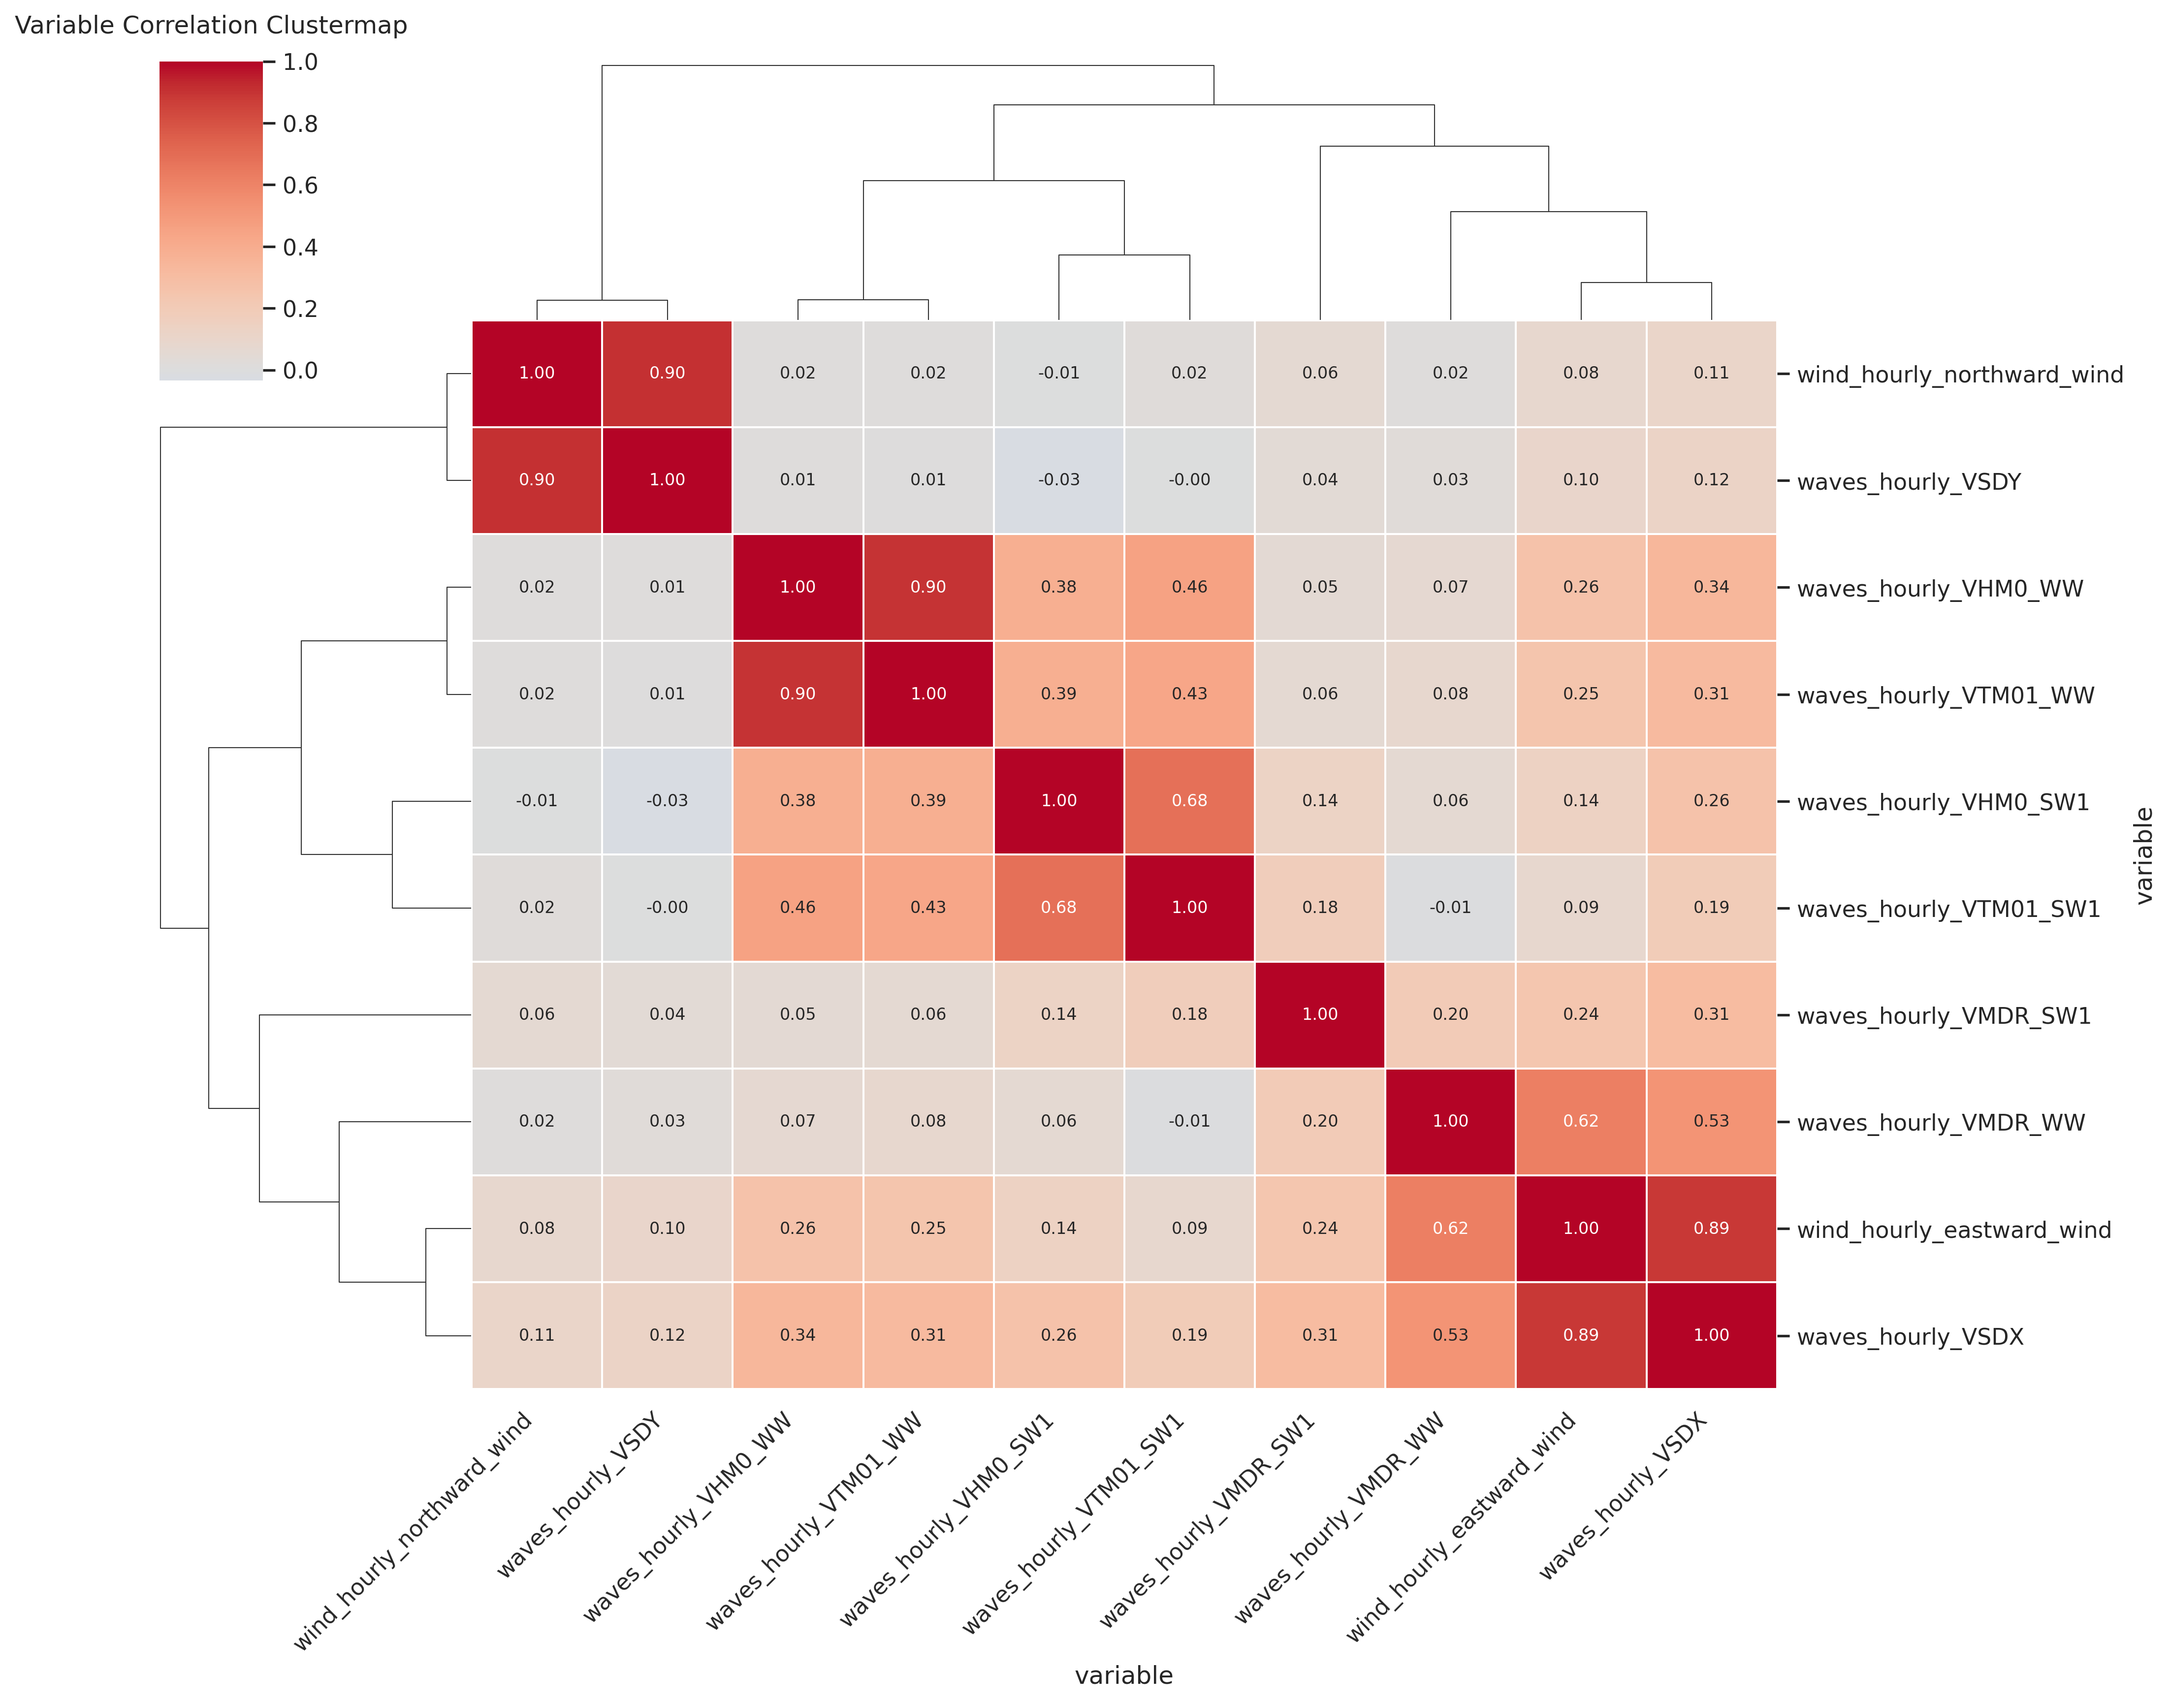
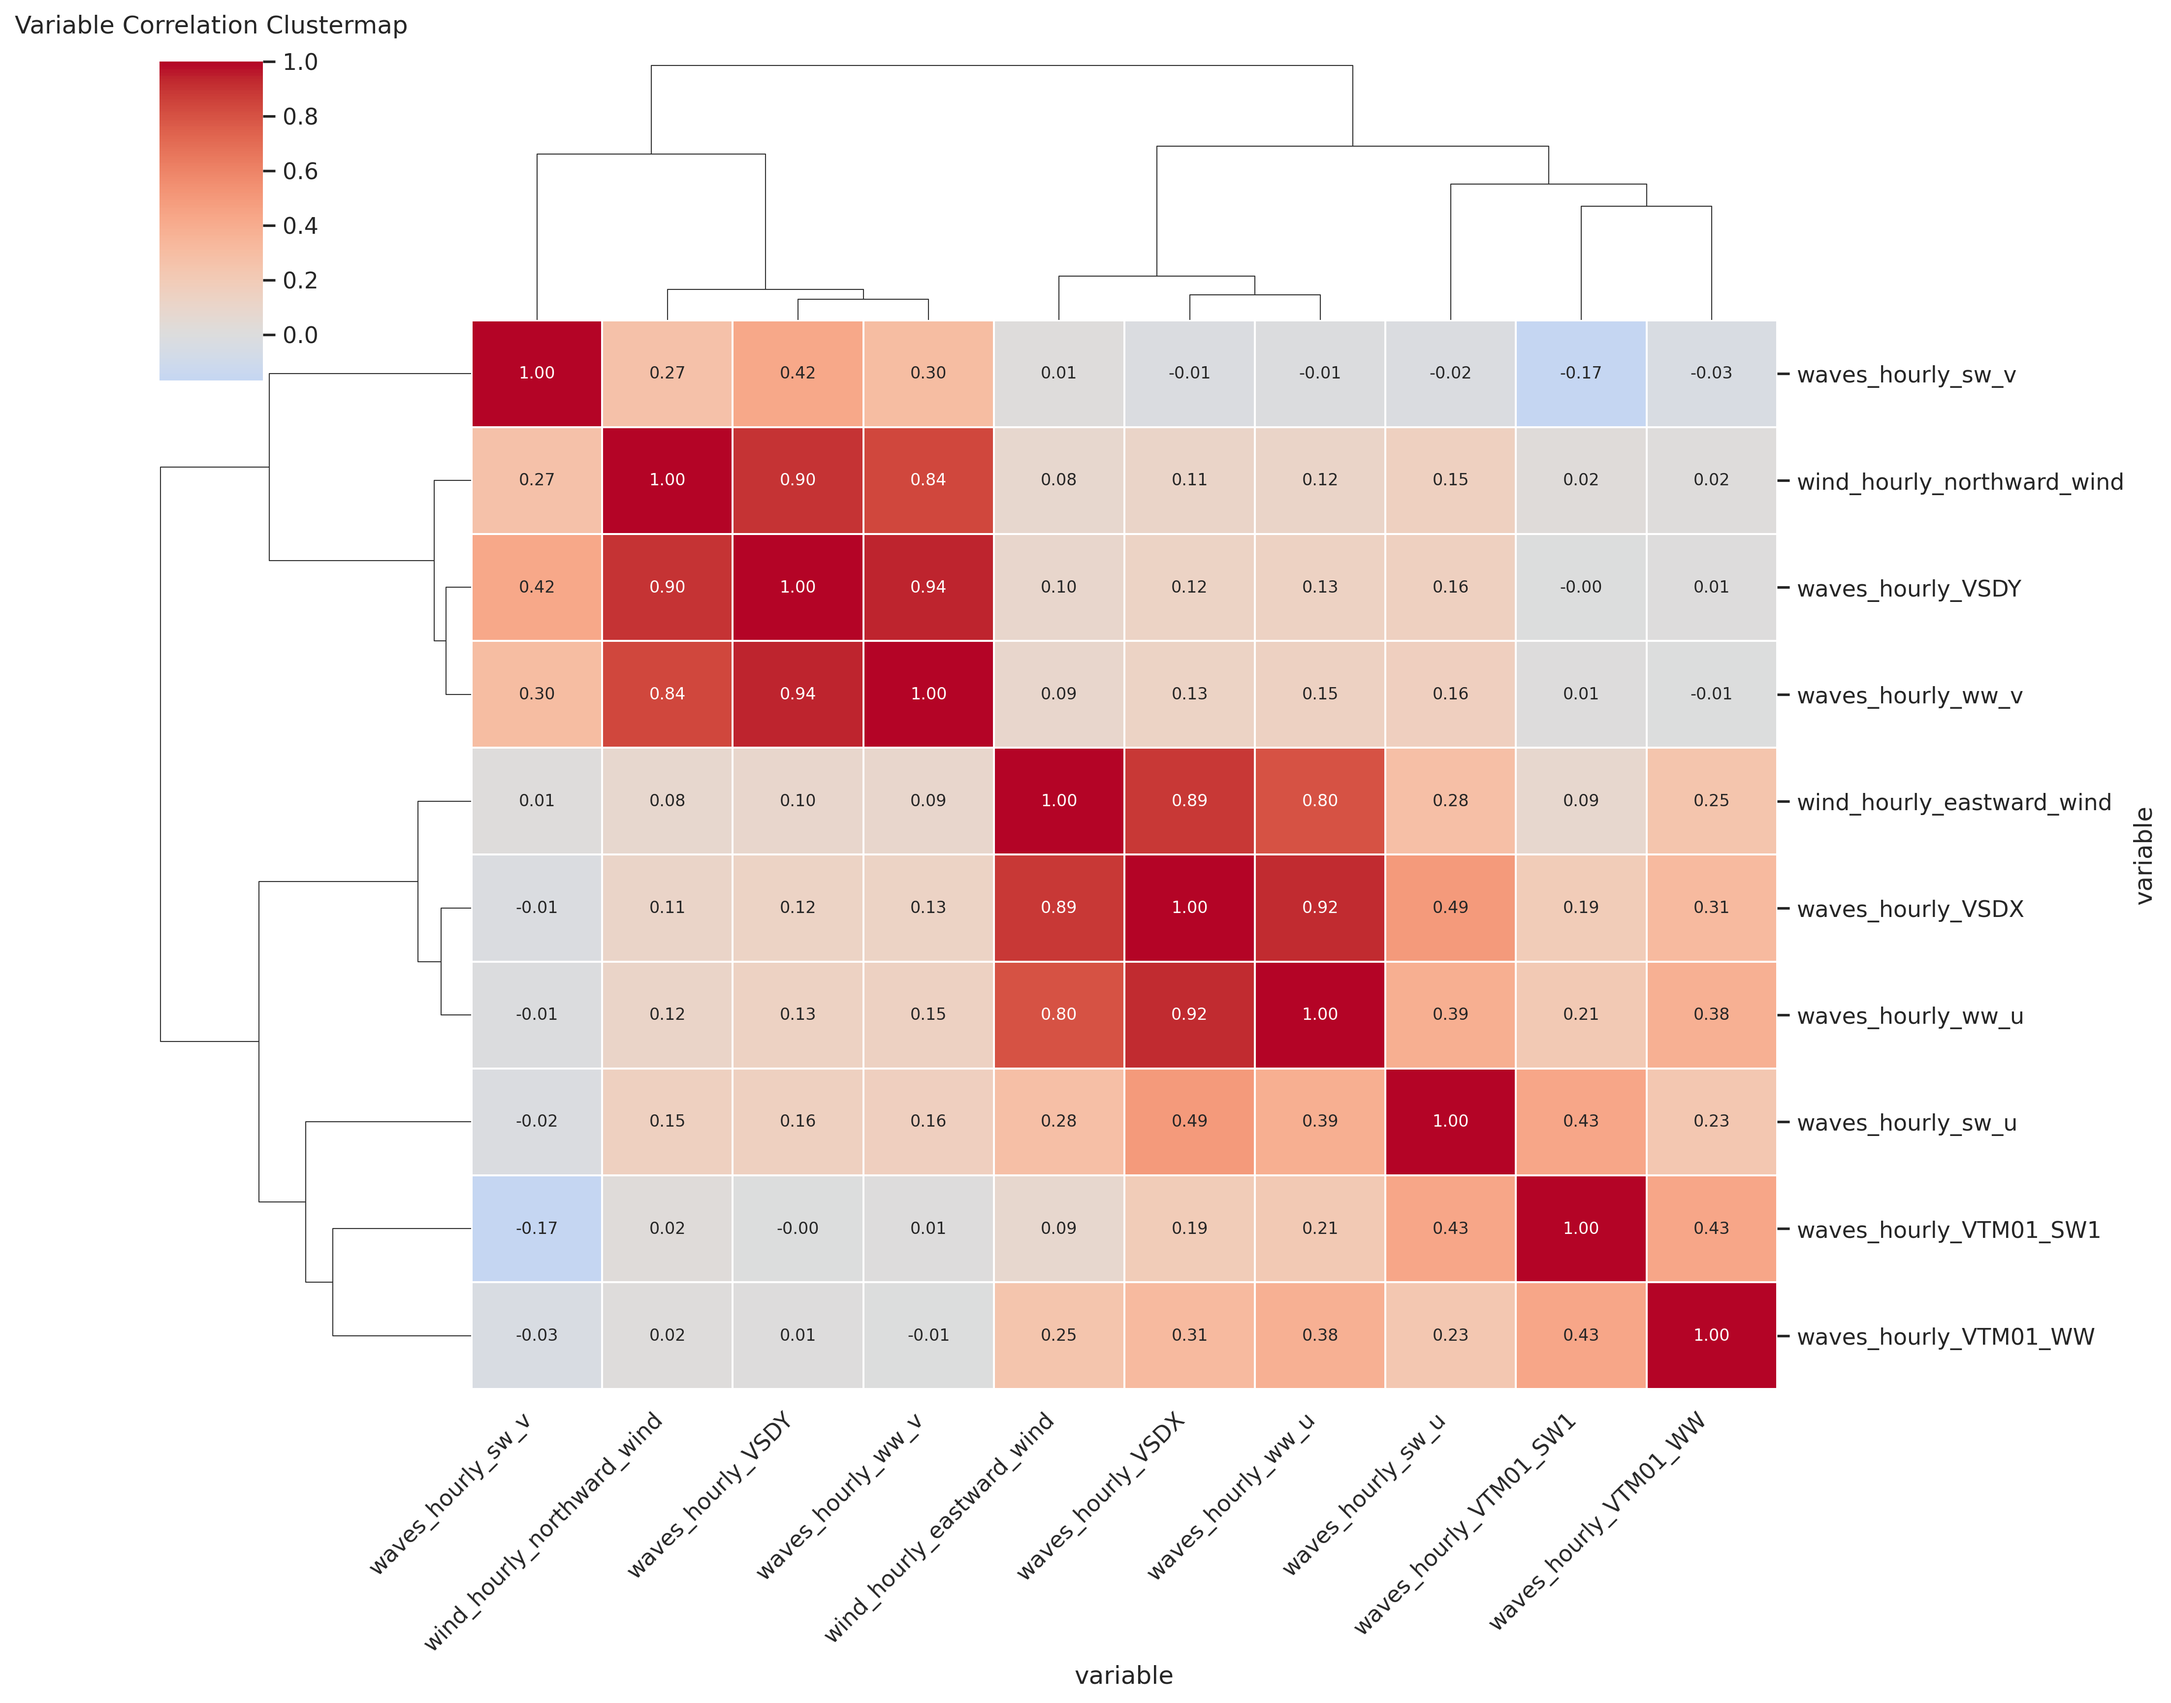
Refactor environment data

diff --git a/process/fetch_environment_data.py b/process/fetch_environment_data.py
@@ -33,7 +33,7 @@ from sklearn.linear_model import LinearRegression
 from tqdm import tqdm
 
 from process.bin_utils import compute_all_bins_to_json, get_binned_data_for_components_dask
-from process.config import datasets, AOIS, copernicus_data_directory
+from process.config import datasets, AOIS, copernicus_data_directory, screenshots_directory
 from process.sea_graph import get_all_unique_h3_centroids_df
 
 # Suppress DEBUG logging from known libraries
@@ -381,7 +381,7 @@ def plot_correlation_heatmap(corr_matrix, title="Variable Correlation Clustermap
     g.ax_heatmap.set_yticklabels(g.ax_heatmap.get_yticklabels(), rotation=0)
     plt.title(title, y=1.05)
 
-    output_path = copernicus_data_directory / "figures" / (title.replace(" ", "_").lower() + ".png")
+    output_path = screenshots_directory / (title.replace(" ", "_").lower() + ".png")
     output_path.parent.mkdir(parents=True, exist_ok=True)
 
     plt.savefig(output_path, bbox_inches="tight", dpi=300)
@@ -582,11 +582,11 @@ def main():
 
     sampled_data = run_correlation_analysis(hourly_datasets, drop_na=False)
 
-    wind_proxy_coefficients = compute_wind_proxy_coefficients(sampled_data)
-
-    bins = compute_all_bins_to_json()
-
-    create_modal_zarr_from_waves(bins)
+    # wind_proxy_coefficients = compute_wind_proxy_coefficients(sampled_data)
+    #
+    # bins = compute_all_bins_to_json()
+    #
+    # create_modal_zarr_from_waves(bins)
 
 
 if __name__ == "__main__":
